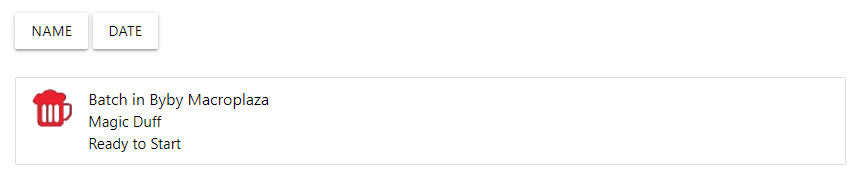
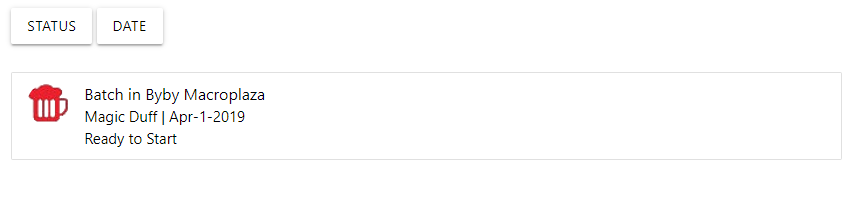
Updated Files

diff --git a/documentation/batch.md b/documentation/batch.md
@@ -13,7 +13,7 @@ Additionally, we used the [Google Maps API](https://developers.google.com/maps/d
 ## Important Files 
 * [make-batch.js](https://github.com/KillerFarmer/BYBY/tree/documentation/js/make-batch.js "make-batch.js")
   
-This is one of the longer files since it involves a lot of google maps stuff, specially dynamically generating custom markers. In addition to getting multiple lists from DynamoDB for facilities, recipes and bioreactors. Subsequently, one can order their recipes by either name or by date. 
+This is one of the longer files since it involves a lot of google maps stuff, specially dynamically generating custom markers. In addition to getting multiple lists from DynamoDB for facilities, recipes and bioreactors. Subsequently, one can order their recipes by either state or by date. 
 ## Flow
 ![Make Batch](https://raw.githubusercontent.com/KillerFarmer/BYBY/documentation/documentation/img/makebatch.png "Make Batch")
 
